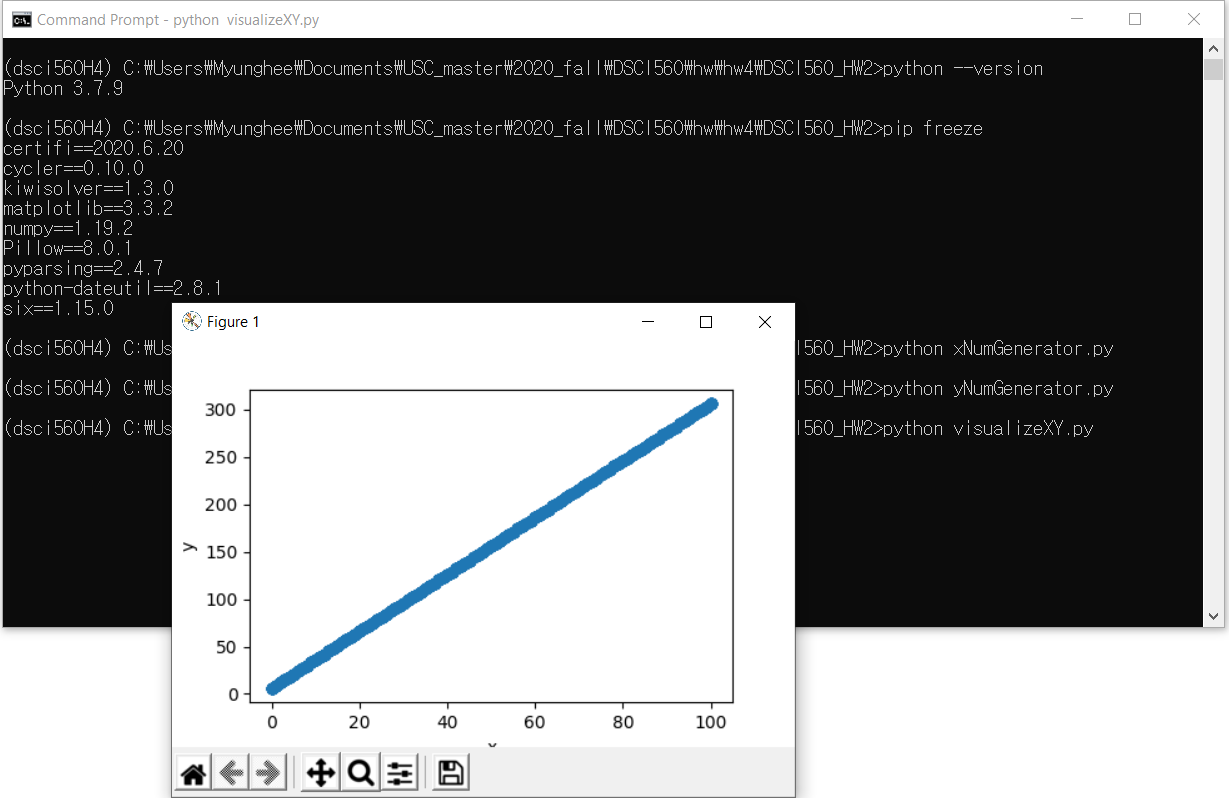
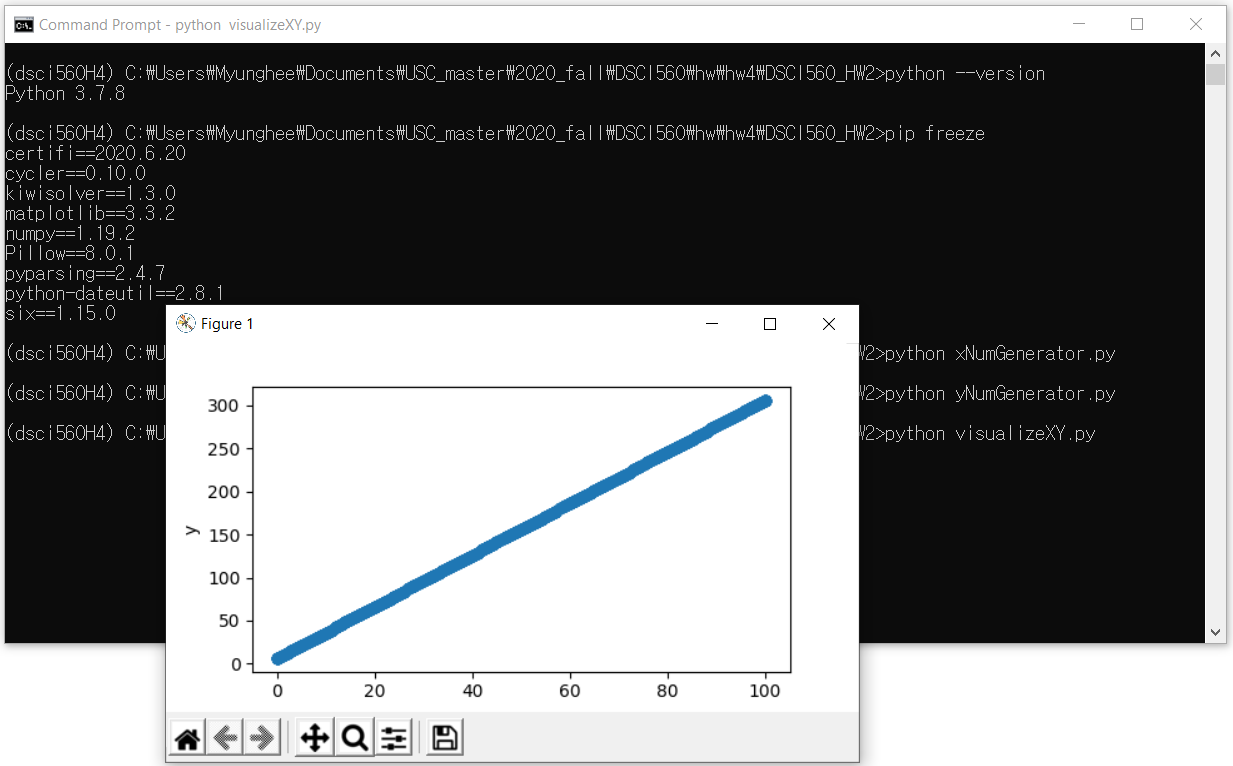
finalize hw4

Changed region(s): [[0.0, 0.0, 1.0, 1.0], [0.773, 0.0901, 0.8348, 0.1201]]

diff --git a/README.md b/README.md
@@ -1,7 +1,12 @@
-# DSCI560_HW4
-
+# DSCI560_HW2
 <a href="https://zenodo.org/badge/latestdoi/298509821"><img src="https://zenodo.org/badge/298509821.svg" alt="DOI"></a>
 
+# DSCI560_HW4
+## Description of the project
+1. xNumGenerator.py: Generate 1000 random numbers over the range 0-100 for X axis
+2. yNumGenerator.py: Generate new numbers for Y axis from random numbers of step 1 using the equation y=3x+6
+3. visualizeXY.py: Generate visualization results
+4. Visualizatin.ipynb: call all previous *.py files and show the visualizations of intial, intemetiate, and final results
 
 # Q 1-3: Screenshot
 
@@ -10,7 +15,7 @@
 </p>
 
 # Q 4: Dependencies of my virtual environment 
-a. Python version: 3.7.9
+a. Python version: 3.7.8
 1. The package I manually installed: matplotlib 3.3.2 by the command
 ```
 pip install matplotlib
@@ -39,12 +44,12 @@ pip freeze > requirements.txt
 ```
 
 # Q5, Q6b
-You can execute the notebook and see intial, intemetiate, and final results by the binder link.
+You can execute the notebook file "Visualization.ipynb" in Binder, and see intial, intemetiate, and final results.
 
-
+[![Binder](https://mybinder.org/badge_logo.svg)](https://mybinder.org/v2/gh/Myunghee13/DSCI560_HW2/master)
 
 # Q6a. Instructions for executing the project on your computer
-1. Install Python 3.7.9
+1. Install Python 3.7.8
 2. Open your terminal and go to the directory you want to download this repository
 3. Download this repository and go to the folder you downloaded
 ```
@@ -79,7 +84,7 @@ python visualizeXY.py
 ```
 deactivate
 ```
-11. You can also execute these scripts with the notebook at once.
+11. You can also execute these scripts at once with the notebook file "Visualization.ipynb" in Binder.
 
-
+[![Binder](https://mybinder.org/badge_logo.svg)](https://mybinder.org/v2/gh/Myunghee13/DSCI560_HW2/master)
 
